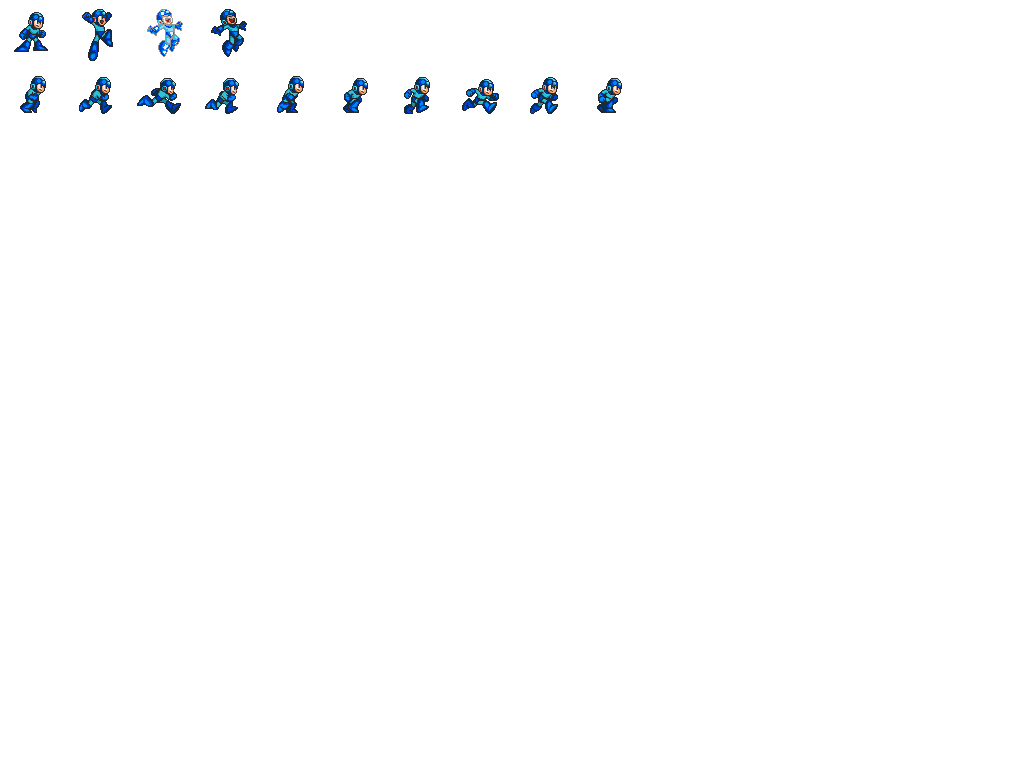
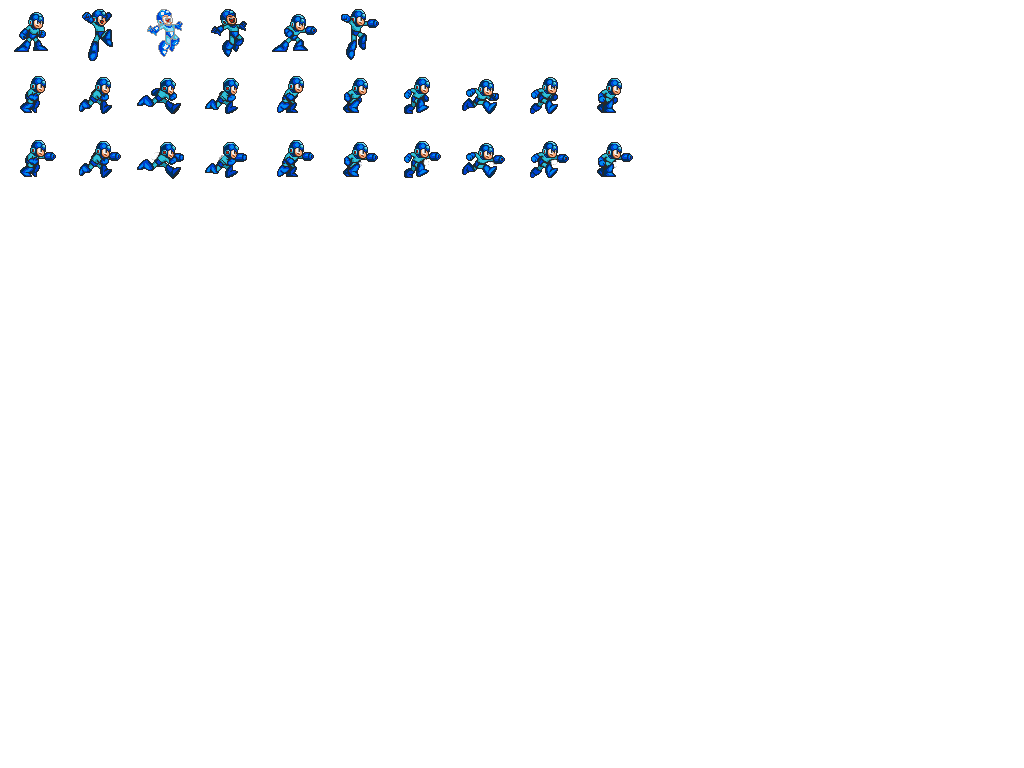
Added shooting animation, next stop : projectiles.

Changed region(s): [[0.0, 0.1875, 0.625, 0.25], [0.25, 0.0, 0.375, 0.0625]]

diff --git a/src/entities/Player.java b/src/entities/Player.java
@@ -9,10 +9,15 @@ import org.newdawn.slick.geom.Rectangle;
 public class Player extends Entity{
 	public static Player player = new Player(640/2,480/2);
 	
+	private boolean shooting;
+	
 	String direction;
 	Animation movingLeft, movingRight;
+	Animation shootingLeft, shootingRight;
 	Animation standingRight, standingLeft;
+	Animation standShootRight, standShootLeft;
 	Animation jumpingLeft, jumpingRight;
+	Animation jumpShootLeft, jumpShootRight;
 	Animation damageLeft, damageRight;
 		
 	public Player(float x, float y){		
@@ -20,14 +25,25 @@ public class Player extends Entity{
 		x = 640/2;
 		y = 480/2;
 		
+		shooting = false;
+		
 		movingLeft = new Animation(); movingLeft.setAutoUpdate(true);
 		movingRight = new Animation(); movingRight.setAutoUpdate(true);
+		
+		shootingLeft = new Animation(); shootingLeft.setAutoUpdate(true);
+		shootingRight = new Animation(); shootingRight.setAutoUpdate(true);
 		
 		standingLeft = new Animation();
 		standingRight = new Animation();
 		
+		standShootLeft = new Animation();
+		standShootRight = new Animation();
+		
 		jumpingLeft = new Animation();
 		jumpingRight = new Animation();
+		
+		jumpShootLeft = new Animation();
+		jumpShootRight = new Animation();
 		
 		damageLeft = new Animation(); damageLeft.setAutoUpdate(true);
 		damageRight = new Animation(); damageRight.setAutoUpdate(true);
@@ -46,16 +62,25 @@ public class Player extends Entity{
 	public void loadAnimation(){
 		int row = 1;
 		for(int col = 0 ; col < 10 ; col++){
-			if(row == 1){
-				movingRight.addFrame(sh.getSprite(col, row), 100);
-				movingLeft.addFrame(sh.getSprite(col, row).getFlippedCopy(true, false), 100);
-			}
+			
+			movingRight.addFrame(sh.getSprite(col, row), 100);
+			movingLeft.addFrame(sh.getSprite(col, row).getFlippedCopy(true, false), 100);
+			
+			shootingRight.addFrame(sh.getSprite(col, row+1), 100);
+			shootingLeft.addFrame(sh.getSprite(col, row+1).getFlippedCopy(true, false), 100);
+			
 		}
 		standingRight.addFrame(sh.getSprite(0, 0), 100);
 		standingLeft.addFrame(sh.getSprite(0, 0).getFlippedCopy(true, false),100);
 		
+		standShootRight.addFrame(sh.getSprite(4, 0), 100);
+		standShootLeft.addFrame(sh.getSprite(4, 0).getFlippedCopy(true, false),100);
+		
 		jumpingRight.addFrame(sh.getSprite(1, 0), 100);
 		jumpingLeft.addFrame(sh.getSprite(1, 0).getFlippedCopy(true, false),100);
+		
+		jumpShootRight.addFrame(sh.getSprite(5, 0), 100);
+		jumpShootLeft.addFrame(sh.getSprite(5, 0).getFlippedCopy(true, false),100);
 		
 		damageRight.addFrame(sh.getSprite(2, 0), 100);
 		damageRight.addFrame(sh.getSprite(3, 0), 100);
@@ -85,10 +110,24 @@ public class Player extends Entity{
 			if(this.direction.equals("left")) anim = jumpingLeft;
 			else anim = jumpingRight;
 		}
+		
+		if(shooting && falling){
+			if(this.direction.equals("left")) anim = jumpShootLeft;
+			else anim = jumpShootRight;
+		}
+		else if(shooting && direction.equals("standing")){
+			if(this.direction.equals("left")) anim = standShootLeft;
+			else anim = standShootRight;
+		}
+		else if(shooting){
+			if(this.direction.equals("left")) anim = shootingLeft;
+			else anim = shootingRight;
+		}
 		if(damageStatus){
 			if(this.direction.equals("left")) anim = damageLeft;
 			else anim = damageRight;
 		}
+		
 	}
 
 	@Override
@@ -118,5 +157,11 @@ public class Player extends Entity{
 	}
 	public boolean getDamageStatus(){
 		return damageStatus;
+	}
+	public void setShooting(boolean shooting){
+		this.shooting = shooting;
+	}
+	public boolean getShooting(){
+		return shooting;
 	}
 }

diff --git a/src/states/Base.java b/src/states/Base.java
@@ -34,9 +34,11 @@ public class Base extends BasicGameState{
 	
 	private int jump;
 	private int damage;
+	private int shooting;
 	
 	private final int jumpLimit = 24;
 	private final int damageLengthLimit = 24;
+	private final int shootingLimit = 24;
 	
 	float speed = 0.3f;
 	
@@ -45,8 +47,8 @@ public class Base extends BasicGameState{
 	
 	public Base(int state, String map){
 		super();
-		x = -(20 << 6) + 640/2;
-		y = -(19 << 6) + 480/2;
+		x = -(0 << 6) + 640/2;
+		y = -(0 << 6) + 480/2;
 		this.state = state;
 		this.map = map;
 	}
@@ -77,6 +79,7 @@ public class Base extends BasicGameState{
 		g.drawString(x + " " + y, 500, 0);
 		g.drawString(jump + "", 500, 20);
 		g.drawString(Player.player.getFalling() + " ", 500, 40);
+		g.drawString(shooting + " ", 500, 60);
 		
 	}
 
@@ -108,9 +111,19 @@ public class Base extends BasicGameState{
 			jump = jumpLimit;
 			
 		}
+		if(input.isKeyPressed(Input.KEY_Z)
+				&& !Player.player.getDamageStatus() && shooting < 10){
+			shooting = shootingLimit;
+			Player.player.setShooting(true);
+		}
 		if(jump > 0){
 			jump--;
 			y += 10;
+		}
+		if(shooting > 0){
+			shooting--;
+		}else{
+			Player.player.setShooting(false);
 		}
 		if(damage > 0){
 			damage--;
